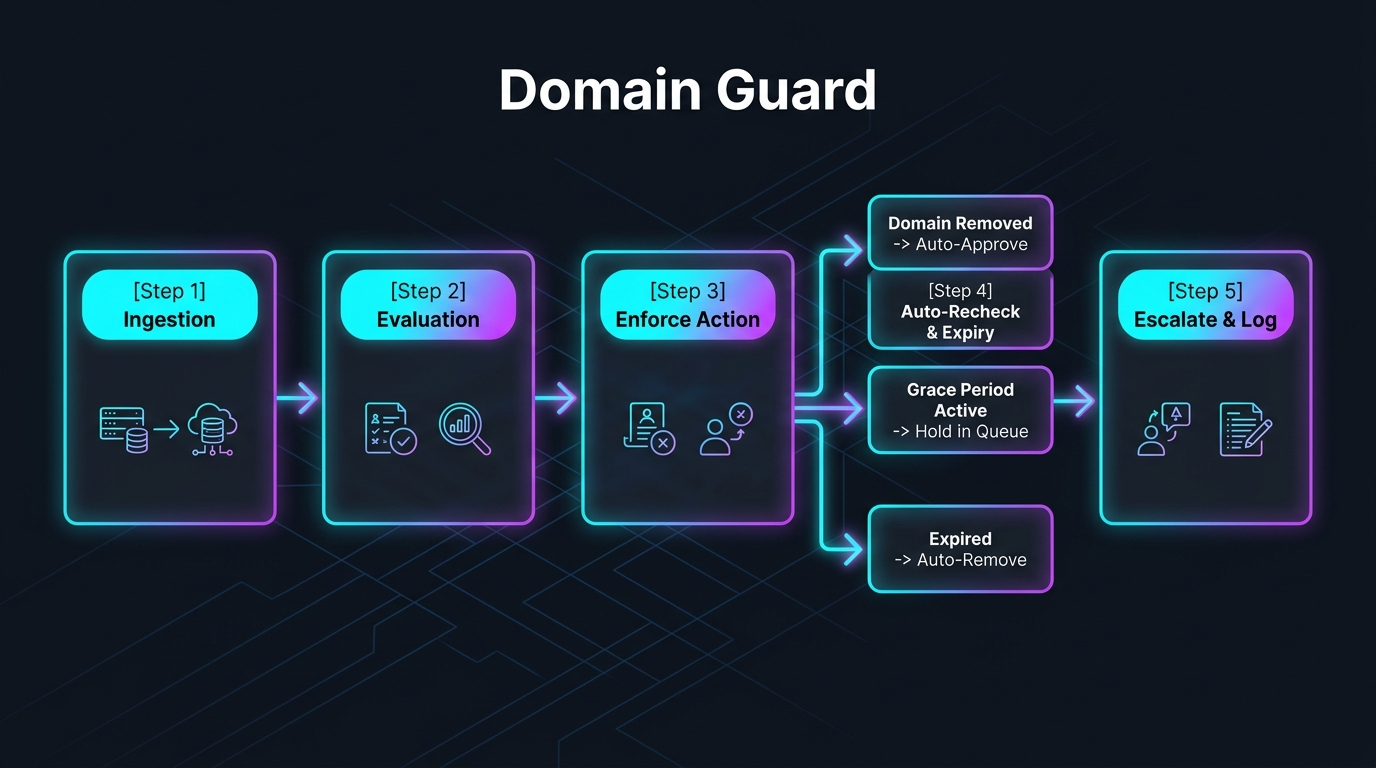
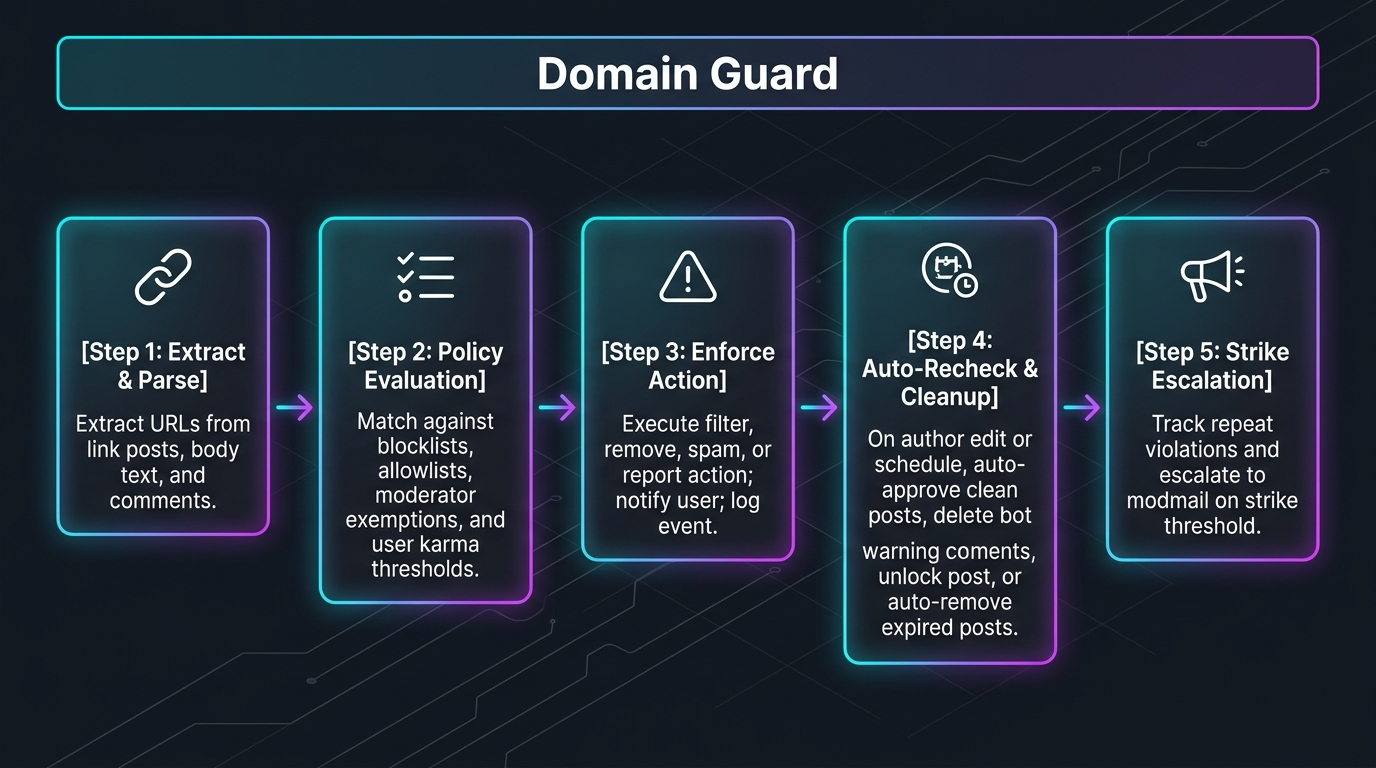
chore: update assets for domain-guard v0.0.151

diff --git a/domain-guard/readme.html b/domain-guard/readme.html
@@ -23,7 +23,7 @@
 <ul>
 <li><strong>Granular Domain Control</strong>: Set strict allowlists or blocklists with automated subdomain and wildcard handling.</li>
 <li><strong>Context-Aware Scopes</strong>: Enforce rules across link submissions, text post bodies, comment threads, or all content simultaneously.</li>
-<li><strong>Automated Filter Re-Checking & Expiration</strong>: Automatically re-evaluates filtered posts upon edit and on schedule. Auto-approves when authors remove restricted links, or auto-removes after a configurable grace period.</li>
+<li><strong>Automated Filter Re-Checking & Expiration</strong>: Automatically re-evaluates filtered posts upon edit and on schedule. Auto-approves when authors remove restricted links, automatically deletes the bot's previous moderation notification comment, unlocks the post, or auto-removes after a configurable grace period.</li>
 <li><strong>Reputation-Gated Filtering</strong>: Apply domain restrictions exclusively to new or low-karma accounts while leaving established members unaffected.</li>
 <li><strong>Flexible Moderation Actions</strong>: Choose between silent removal, marking as spam, filtering to mod queue, reporting, or audit-only logging.</li>
 <li><strong>Repeat Offender Escalation</strong>: Automatically track repeated violations and escalate repeat link spammers to modmail for team review.</li>
@@ -36,7 +36,7 @@
 <p>1. <strong>Extract</strong>: Domain Guard intercepts new submissions, edits, and comments, extracting and normalizing all candidate URLs.</p>
 <p>2. <strong>Evaluate</strong>: Domains are checked against global exemptions, moderator status, content scope, and user risk thresholds.</p>
 <p>3. <strong>Enforce</strong>: When a restricted domain matches an active rule, the configured moderation action (`remove`, `spam`, `filter`, or `report`) executes immediately.</p>
-<p>4. <strong>Auto-Recheck</strong>: Filtered submissions in the mod queue are automatically tracked and re-checked on edits (`onPostUpdate`) and recurring schedule. Cleaned posts are auto-approved; unedited posts exceeding the grace period are auto-removed.</p>
+<p>4. <strong>Auto-Recheck</strong>: Filtered submissions in the mod queue are automatically tracked and re-checked on edits (`onPostUpdate`) and recurring schedule. Cleaned posts are auto-approved, the bot's previous warning comment is deleted, and the post is unlocked; unedited posts exceeding the grace period are auto-removed.</p>
 <p>5. <strong>Escalate</strong>: Repeat violations are recorded, and summary notifications are dispatched to modmail when configured.</p>
 <p>---</p>
 <h2>Quick Setup</h2>

diff --git a/domain-guard/wiki.html b/domain-guard/wiki.html
@@ -1,7 +1,7 @@
 <h1>DomainGuard</h1>
 
 <p>Category: Security<br>
-Version: v0.0.150<br>
+Version: v0.0.151<br>
 Visibility: Public<br>
 Summary: Professional URL and domain moderation engine with singleton architecture and hardened API gates.</p>
 
@@ -72,11 +72,11 @@ Summary: Professional URL and domain moderation engine with singleton architectu
 </ul>
 
 <h2>Version History</h2>
+<p>0.0.151 — 2026-09-04<br>
+Feature: Added automated removal reason comment cleanup (`c.delete()` / `reddit.remove()`) when filtered posts are auto-approved upon edit or manually approved from the Filtered Queue.; Feature: Added automated post unlocking on approval if the post was previously locked.; Feature: Added `notificationCommentId` tracking to `FilteredPostEntry` for direct targeted comment deletion.</p>
 <p>0.0.150 — 2026-09-04<br>
 Standard fleet synchronization and maintenance.</p>
 <p>0.0.149 — 2026-09-02<br>
-Standard fleet synchronization and maintenance.</p>
-<p>0.0.148 — 2026-09-01<br>
 Standard fleet synchronization and maintenance.</p>
 
 <h2>Links</h2>

diff --git a/domain-guard/README.md b/domain-guard/README.md
@@ -40,7 +40,7 @@ Domain Guard protects your subreddit from malicious links, URL shorteners, and r
 
 - **Granular Domain Control**: Set strict allowlists or blocklists with automated subdomain and wildcard handling.
 - **Context-Aware Scopes**: Enforce rules across link submissions, text post bodies, comment threads, or all content simultaneously.
-- **Automated Filter Re-Checking & Expiration**: Automatically re-evaluates filtered posts upon edit and on schedule. Auto-approves when authors remove restricted links, or auto-removes after a configurable grace period.
+- **Automated Filter Re-Checking & Expiration**: Automatically re-evaluates filtered posts upon edit and on schedule. Auto-approves when authors remove restricted links, automatically deletes the bot's previous moderation notification comment, unlocks the post, or auto-removes after a configurable grace period.
 - **Reputation-Gated Filtering**: Apply domain restrictions exclusively to new or low-karma accounts while leaving established members unaffected.
 - **Flexible Moderation Actions**: Choose between silent removal, marking as spam, filtering to mod queue, reporting, or audit-only logging.
 - **Repeat Offender Escalation**: Automatically track repeated violations and escalate repeat link spammers to modmail for team review.
@@ -57,7 +57,7 @@ Domain Guard protects your subreddit from malicious links, URL shorteners, and r
 1. **Extract**: Domain Guard intercepts new submissions, edits, and comments, extracting and normalizing all candidate URLs.
 2. **Evaluate**: Domains are checked against global exemptions, moderator status, content scope, and user risk thresholds.
 3. **Enforce**: When a restricted domain matches an active rule, the configured moderation action (`remove`, `spam`, `filter`, or `report`) executes immediately.
-4. **Auto-Recheck**: Filtered submissions in the mod queue are automatically tracked and re-checked on edits (`onPostUpdate`) and recurring schedule. Cleaned posts are auto-approved; unedited posts exceeding the grace period are auto-removed.
+4. **Auto-Recheck**: Filtered submissions in the mod queue are automatically tracked and re-checked on edits (`onPostUpdate`) and recurring schedule. Cleaned posts are auto-approved, the bot's previous warning comment is deleted, and the post is unlocked; unedited posts exceeding the grace period are auto-removed.
 5. **Escalate**: Repeat violations are recorded, and summary notifications are dispatched to modmail when configured.
 
 ---

diff --git a/domain-guard/wiki.md b/domain-guard/wiki.md
@@ -1,7 +1,7 @@
 # DomainGuard
 
 Category: Security  
-Version: v0.0.150  
+Version: v0.0.151  
 Visibility: Public  
 Summary: Professional URL and domain moderation engine with singleton architecture and hardened API gates.
 
@@ -64,13 +64,15 @@ This app utilizes Reddit Redis storage for state management, caching, and rate l
 - Ensure all required app settings and API keys are properly configured in Mod Tools.
 
 ## Version History
+0.0.151 — 2026-09-04
+- Feature: Added automated removal reason comment cleanup (`c.delete()` / `reddit.remove()`) when filtered posts are auto-approved upon edit or manually approved from the Filtered Queue.
+- Feature: Added automated post unlocking on approval if the post was previously locked.
+- Feature: Added `notificationCommentId` tracking to `FilteredPostEntry` for direct targeted comment deletion.
+
 0.0.150 — 2026-09-04
 - Standard fleet synchronization and maintenance.
 
 0.0.149 — 2026-09-02
-- Standard fleet synchronization and maintenance.
-
-0.0.148 — 2026-09-01
 - Standard fleet synchronization and maintenance.
 
 ## Links
